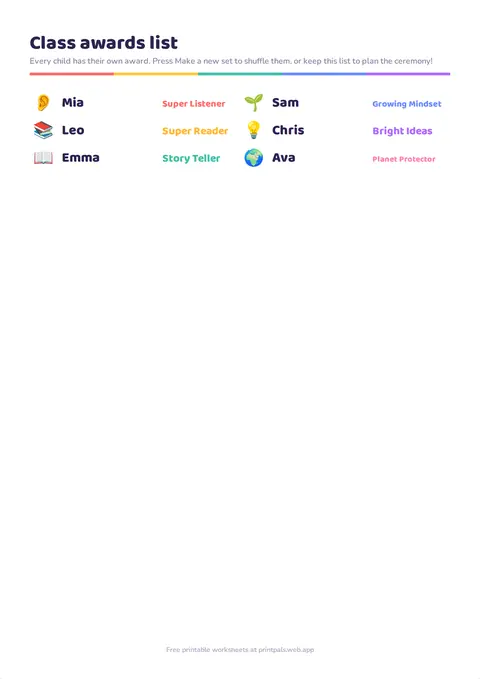
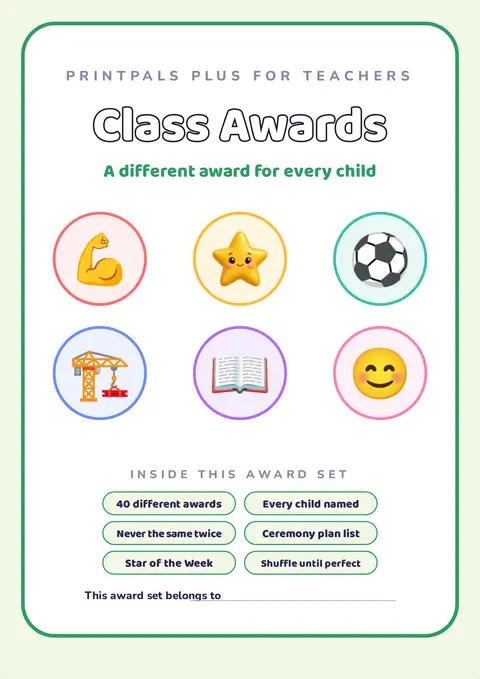
PrintPals: premium Plus showcase on the home page, covers for teacher card sets
Claude-Session: https://claude.ai/code/session_01MKMoh7LoaWyM3eLH65dhSV

diff --git a/printpals/public/index.html b/printpals/public/index.html
@@ -33,9 +33,17 @@
 <section class="hero"><div class="shapes" aria-hidden="true"><span style="width:90px;height:90px;left:6%;top:18%;background:#ffe08a;animation-delay:0s"></span><span style="width:60px;height:60px;left:88%;top:12%;background:#bfe8ff;animation-delay:1.5s"></span><span style="width:46px;height:46px;left:80%;top:70%;background:#ffc6d9;animation-delay:3s"></span><span style="width:70px;height:70px;left:12%;top:72%;background:#c9f2e6;animation-delay:4.5s"></span></div><div class="wrap" style="position:relative">
 <h1>Stop searching.<br><span class="hl">Start learning.</span></h1>
 <p class="lead">A whole week of learning planned for your child in one click, with their name on every page. Plus 120 free worksheet makers for ages 2 to 10. No sign up, ever.</p>
-<div class="cta"><a class="btn big" href="/weekly-learning-pack">🎒 Plan my child's week, free</a><a class="btn alt big" href="#packs">Browse everything</a></div>
+<div class="cta"><a class="btn big" href="/weekly-learning-pack">🎒 Plan my child's week, free</a><a class="btn plusbtn big" href="#plus-show">✨ Explore PrintPals Plus</a></div>
 <div class="chips"><span class="chip">✓ 100% free</span><span class="chip">✓ No sign up</span><span class="chip">✓ Private on your device</span><span class="chip">✓ A4 and US Letter</span><span class="chip">✓ Ink saver</span></div>
 </div></section>
+<section class="plus-show" id="plus-show"><div class="wrap">
+<div class="ps-head"><span class="ps-badge">✨ PrintPals Plus</span><h2>Premium learning, planned for you</h2><p>Whole months of learning, series to collect and class packs with every child's name. 55 family packs and 20 teacher packs, with new ones every month.</p></div>
+<div class="ps-tabs" role="tablist"><button type="button" class="on" data-ps="fam">👨👩👧 For families <b>$4.99/month</b></button><button type="button" data-ps="tea">🍎 For teachers <b>$59/year</b></button></div>
+<div class="ps-row" data-ps-row="fam"><a class="show-card" href="/handwriting-month-workbook" style="--tint:#f1f8e6"><div class="show-thumb"><img src="/img/thumb-handmonth.webp" alt="Handwriting Month example" loading="lazy" width="400" height="566"></div><div class="show-body"><h3>✏ Handwriting Month</h3><p>A 4 week handwriting workbook: 20 daily pages with their name.</p><span class="go">Try 7 days free →</span></div></a><a class="show-card" href="/maths-a-day-workbook" style="--tint:#eef6ff"><div class="show-thumb"><img src="/img/thumb-mathsday.webp" alt="Maths a Day example" loading="lazy" width="400" height="566"></div><div class="show-body"><h3>🔢 Maths a Day</h3><p>4 weeks of 10 minute daily maths, Friday checks and answers.</p><span class="go">Try 7 days free →</span></div></a><a class="show-card" href="/reading-month-sight-words" style="--tint:#fff0f5"><div class="show-thumb"><img src="/img/thumb-readmonth.webp" alt="Reading Month example" loading="lazy" width="400" height="566"></div><div class="show-body"><h3>📚 Reading Month</h3><p>16 sight words in 4 weeks with a story every Friday.</p><span class="go">Try 7 days free →</span></div></a><a class="show-card" href="/colouring-month-book" style="--tint:#fff0f5"><div class="show-thumb"><img src="/img/thumb-colourmonth.webp" alt="Colouring Month example" loading="lazy" width="400" height="566"></div><div class="show-body"><h3>🎨 Colouring Month</h3><p>40 busy scene colouring pages, each with a fun challenge.</p><span class="go">Try 7 days free →</span></div></a><a class="show-card" href="/times-tables-club" style="--tint:#f5edff"><div class="show-thumb"><img src="/img/thumb-timesclub.webp" alt="Times Tables Club example" loading="lazy" width="400" height="566"></div><div class="show-body"><h3>✖ Times Tables Club</h3><p>A times tables club: a table a week, speed tests and badges.</p><span class="go">Try 7 days free →</span></div></a><a class="show-card" href="/science-experiments-month" style="--tint:#e8f8f4"><div class="show-thumb"><img src="/img/thumb-sciencemonth.webp" alt="Science Month example" loading="lazy" width="400" height="566"></div><div class="show-body"><h3>🧪 Science Month</h3><p>16 easy kitchen experiments with predict, observe and report pages.</p><span class="go">Try 7 days free →</span></div></a><a class="show-card" href="/phonics-month-workbook" style="--tint:#fff0f0"><div class="show-thumb"><img src="/img/thumb-phonicsmonth.webp" alt="Phonics Month example" loading="lazy" width="400" height="566"></div><div class="show-body"><h3>🔤 Phonics Month</h3><p>16 letter sounds in 4 weeks, with blending every Friday.</p><span class="go">Try 7 days free →</span></div></a><a class="show-card" href="/dinosaur-activity-pack-for-kids" style="--tint:#f1f8e6"><div class="show-thumb"><img src="/img/thumb-dinokit.webp" alt="Dinosaur Explorer kit example" loading="lazy" width="400" height="566"></div><div class="show-body"><h3>🦖 Dinosaur Explorer kit</h3><p>Dino fact cards, a size chart, counting and a palaeontologist award.</p><span class="go">Try 7 days free →</span></div></a></div>
+<div class="ps-row" data-ps-row="tea" hidden><a class="show-card" href="/class-welcome-kit-for-teachers" style="--tint:#fff6e0"><div class="show-thumb"><img src="/img/thumb-classwelcome.webp" alt="Class Welcome Kit example" loading="lazy" width="400" height="566"></div><div class="show-body"><h3>🏷 Class Welcome Kit</h3><p>Name tags, peg labels, class jobs and All about me pages for every child.</p><span class="go">Try 7 days free →</span></div></a><a class="show-card" href="/class-christmas-cards" style="--tint:#fff0f0"><div class="show-thumb"><img src="/img/thumb-xmascards.webp" alt="Class Christmas Cards example" loading="lazy" width="400" height="566"></div><div class="show-body"><h3>💌 Class Christmas Cards</h3><p>A named Christmas card for every child, plus cards they make.</p><span class="go">Try 7 days free →</span></div></a><a class="show-card" href="/christmas-show-kit" style="--tint:#fff6e0"><div class="show-thumb"><img src="/img/thumb-xmasshow.webp" alt="Christmas Show Kit example" loading="lazy" width="400" height="566"></div><div class="show-body"><h3>🎭 Christmas Show Kit</h3><p>Cast list, role cards, tickets, programme and certificates.</p><span class="go">Try 7 days free →</span></div></a><a class="show-card" href="/class-awards-for-every-child" style="--tint:#f5edff"><div class="show-thumb"><img src="/img/thumb-classawards.webp" alt="Class Awards Pack example" loading="lazy" width="400" height="566"></div><div class="show-body"><h3>🏆 Class Awards Pack</h3><p>A different named award for every child in the class.</p><span class="go">Try 7 days free →</span></div></a><a class="show-card" href="/class-reading-records" style="--tint:#eef6ff"><div class="show-thumb"><img src="/img/thumb-readingrecords.webp" alt="Class Reading Records example" loading="lazy" width="400" height="566"></div><div class="show-body"><h3>📖 Class Reading Records</h3><p>A named reading record book for every child, plus a class tracker.</p><span class="go">Try 7 days free →</span></div></a><a class="show-card" href="/class-reward-system" style="--tint:#fff6e0"><div class="show-thumb"><img src="/img/thumb-classrewards.webp" alt="Class Reward System example" loading="lazy" width="400" height="566"></div><div class="show-body"><h3>⭐ Class Reward System</h3><p>Named sticker charts, team points, coupons and Star of the Week.</p><span class="go">Try 7 days free →</span></div></a><a class="show-card" href="/parents-evening-kit" style="--tint:#fff6e0"><div class="show-thumb"><img src="/img/thumb-parentsevening.webp" alt="Parents&#x27; Evening Kit example" loading="lazy" width="400" height="566"></div><div class="show-body"><h3>🗓 Parents&#x27; Evening Kit</h3><p>Invitations, booking slots and a meeting sheet for every child.</p><span class="go">Try 7 days free →</span></div></a><a class="show-card" href="/report-writing-helper" style="--tint:#f5edff"><div class="show-thumb"><img src="/img/thumb-reporthelper.webp" alt="Report Writing Helper example" loading="lazy" width="400" height="566"></div><div class="show-body"><h3>📋 Report Writing Helper</h3><p>A comment bank and a report page for every child.</p><span class="go">Try 7 days free →</span></div></a></div>
+<div class="ps-cta"><a class="btn big" href="/plus">Try Plus free for 7 days</a><span>No card needed. Cancel any time.</span></div>
+</div></section>
+<script>document.querySelectorAll('.ps-tabs button').forEach(function (b) { b.addEventListener('click', function () { document.querySelectorAll('.ps-tabs button').forEach(function (x) { x.classList.toggle('on', x === b); }); document.querySelectorAll('.ps-row').forEach(function (r) { r.hidden = r.dataset.psRow !== b.dataset.ps; }); }); });</script>
 <section class="only"><div class="wrap"><h2>What only PrintPals does</h2><p class="cat-lead">Other sites give you ten thousand worksheets and leave you to work it out. We built PrintPals around the real problems parents tell us about.</p><div class="only-grid"><a class="only-card" href="/weekly-learning-pack"><span class="only-ico">🎒</span><b>A whole week, planned for you</b><span>Tell us your child&#x27;s name, age and favourite theme. Get a balanced week of reading, maths and fun, a star chart, a certificate and a guide for you.</span><em>Plan my child&#x27;s week →</em></a><a class="only-card" href="/weekly-learning-pack"><span class="only-ico">👧👦</span><b>Siblings, together</b><span>Two or three children of different ages? Same theme, each at their own level, so they can sit and learn side by side.</span><em>Make a sibling pack →</em></a><a class="only-card" href="/family-far-away-activities"><span class="only-ico">💌</span><b>Family far away</b><span>Postcards to send, video call bingo and a countdown to the next visit, for grandparents and loved ones in other places.</span><em>Make a family pack →</em></a><a class="only-card" href="/quick-activity-packs"><span class="only-ico">⚡</span><b>Twenty quiet minutes, now</b><span>Ready packs for restaurants, rainy days, sick days and calm before bed. Screen-free, at your child&#x27;s level.</span><em>Get a quick pack →</em></a><a class="only-card" href="/colouring-pages"><span class="only-ico">🖨</span><b>Kind to your ink</b><span>Only have a black and white printer, or printing at a shop? Tick Ink saver on any sheet for white backgrounds and grey pictures.</span><em>Try it on any sheet →</em></a><a class="only-card" href="/addition-subtraction-worksheets"><span class="only-ico">🐢</span><b>Easier or harder, in one tap</b><span>Not quite right? Sheets have Easier and Harder buttons, and remember your child&#x27;s name on your device only.</span><em>See how it works →</em></a></div></div></section>
 <div class="wrap">
 <div class="finder">

diff --git a/printpals/public/css/site.css b/printpals/public/css/site.css
@@ -316,3 +316,30 @@ footer .foot-all { color: #ffb3c7 !important; font-weight: 800; margin-top: 4px;
 .plus-edition b { color: #8a3fd1; }
 .plus-edition em { font-style: normal; font-weight: 800; color: #e0457b; white-space: nowrap; font-size: 14px; }
 @media (max-width: 700px) { .plus-edition { flex-wrap: wrap; } .plus-edition em { width: 100%; } }
+
+/* ---- Plus showcase (premium band on the home page) ---- */
+.btn.plusbtn { background: linear-gradient(135deg, #8a3fd1, #e0457b); color: #fff; box-shadow: 0 5px 0 #6a2aa8; }
+.plus-show { background: radial-gradient(1200px 400px at 10% 0%, #5b2bb5 0%, transparent 60%), linear-gradient(135deg, #2d1b69 0%, #4a1f7a 55%, #7a2462 100%); color: #fff; padding: 56px 0 60px; margin: 10px 0 30px; }
+.plus-show .ps-head { text-align: center; max-width: 760px; margin: 0 auto 22px; }
+.plus-show h2 { color: #fff; }
+.plus-show .ps-head p { color: #e7defa; font-size: 18px; }
+.ps-badge { display: inline-block; background: linear-gradient(135deg, #ffc93c, #ff8fb1); color: #2d1b69; font-weight: 900; border-radius: 99px; padding: 6px 16px; margin-bottom: 12px; font-size: 15px; }
+.ps-tabs { display: flex; justify-content: center; gap: 10px; flex-wrap: wrap; margin-bottom: 22px; }
+.ps-tabs button { font: 800 16px 'Nunito', sans-serif; color: #e7defa; background: rgba(255,255,255,.08); border: 1px solid rgba(255,255,255,.2); border-radius: 99px; padding: 10px 20px; cursor: pointer; }
+.ps-tabs button b { color: #ffc93c; margin-left: 6px; }
+.ps-tabs button.on { background: #fff; color: #2d1b69; }
+.ps-tabs button.on b { color: #e0457b; }
+.ps-row { display: grid; grid-template-columns: repeat(4, 1fr); gap: 18px; }
+.ps-row[hidden] { display: none; }
+.show-card { display: flex; flex-direction: column; background: #fff; color: var(--ink); border-radius: 20px; overflow: hidden; text-decoration: none; box-shadow: 0 10px 30px rgba(0,0,0,.25); transition: transform .2s; }
+.show-card:hover { transform: translateY(-4px) rotate(-.4deg); }
+.show-thumb { background: var(--tint); padding: 14px 18px 0; height: 190px; overflow: hidden; }
+.show-thumb img { width: 100%; height: auto; border-radius: 8px 8px 0 0; box-shadow: 0 6px 18px rgba(45,35,80,.18); }
+.show-body { padding: 14px 16px 16px; }
+.show-body h3 { font-size: 19px; margin-bottom: 4px; }
+.show-body p { font-size: 14.5px; color: var(--soft); margin-bottom: 8px; line-height: 1.4; }
+.show-body .go { font-weight: 800; color: #8a3fd1; font-size: 14.5px; }
+.ps-cta { display: flex; justify-content: center; align-items: center; gap: 16px; flex-wrap: wrap; margin-top: 26px; }
+.ps-cta span { color: #e7defa; font-weight: 700; }
+@media (max-width: 1000px) { .ps-row { grid-template-columns: repeat(2, 1fr); } }
+@media (max-width: 560px) { .ps-row { grid-template-columns: 1fr 1fr; gap: 12px; } .show-thumb { height: 130px; padding: 10px 10px 0; } .show-body p { display: none; } .show-body h3 { font-size: 16px; } .plus-show { padding: 40px 0; } }

diff --git a/printpals/public/js/pp.js b/printpals/public/js/pp.js
@@ -13640,7 +13640,7 @@ function makeClassAwards(o, paper) {
   const kids = classNames(o), lk = edLook(o.look);
   const cls = String(o.cls || '').trim().slice(0, 24), teacher = String(o.teacher || '').trim().slice(0, 30);
   const awards = shuffle(CLASS_AWARDS, rand);
-  const pages = [];
+  const pages = [seriesCover(paper, 'PRINTPALS PLUS FOR TEACHERS', cls ? `${cls} Awards` : 'Class Awards', 'A different award for every child', awards.slice(0, 6).map((a) => a[0]), lk.ring, lk.tint, 'award set', ['40 different awards', 'Every child named', 'Never the same twice', 'Ceremony plan list', 'Star of the Week', 'Shuffle until perfect'])];
   // Overview for the teacher: who gets which award.
   {
     const pg = new Page(paper, `${cls || 'Class'} awards list`, { subtitle: 'Every child has their own award. Press Make a new set to shuffle them, or keep this list to plan the ceremony!', noName: true });
@@ -13971,7 +13971,7 @@ function foldedCard(paper, front, inside, backNote, backEmoji) {
 // ================================================================ Class Christmas Cards (teachers)
 function makeXmasCards(o, paper) {
   const kids = classNames(o), lk = xLook(o.look), { cls, teacher } = teacherBits(o);
-  const pages = [];
+  const pages = [seriesCover(paper, 'PRINTPALS PLUS FOR TEACHERS', cls ? `${cls} Christmas Cards` : 'Class Christmas Cards', 'A card for every child, and one they make', ['💌', '🎄', '⭐', '🎁', '⛄', '🔔'], lk.ring, lk.tint, 'card set', ['A card from you to each child', 'Warm message inside', 'A card each child makes', 'Signed with their name', 'Named gift tags', `${kids.length} children, all named`])];
   kids.forEach((n, i) => {
     const art = XART[i % XART.length], c = i % 2 ? lk.ring : lk.accent;
     // Card from the teacher (colour-in front, message inside).
@@ -14248,7 +14248,7 @@ function makeMovingUp(o, paper) {
 function makeClassSpecial(o, paper) {
   const kids = classNames(o), lk = edLook(o.look), { cls } = teacherBits(o);
   const who = String(o.who || '').trim().replace(/[<>]/g, '').slice(0, 20) || 'Mum';
-  const pages = [];
+  const pages = [seriesCover(paper, 'PRINTPALS PLUS FOR TEACHERS', `Cards for ${who}`, cls || 'A gift from every child', ['💐', '💌', '🌷', '💛', '🎁', '⭐'], lk.ring, lk.tint, 'card set', ['A card from every child', 'Signed with their name', '4 page mini book', `All about my ${who}`, 'Class checklist', 'Kind for every family'])];
   kids.forEach((n, i) => {
     const c = PALETTE[i % PALETTE.length];
     pages.push(...foldedCard(paper, (pg, x, y, w, h) => {

diff --git a/printpals/public/js/tools33.js b/printpals/public/js/tools33.js
@@ -20,7 +20,7 @@ function foldedCard(paper, front, inside, backNote, backEmoji) {
 // ================================================================ Class Christmas Cards (teachers)
 function makeXmasCards(o, paper) {
   const kids = classNames(o), lk = xLook(o.look), { cls, teacher } = teacherBits(o);
-  const pages = [];
+  const pages = [seriesCover(paper, 'PRINTPALS PLUS FOR TEACHERS', cls ? `${cls} Christmas Cards` : 'Class Christmas Cards', 'A card for every child, and one they make', ['💌', '🎄', '⭐', '🎁', '⛄', '🔔'], lk.ring, lk.tint, 'card set', ['A card from you to each child', 'Warm message inside', 'A card each child makes', 'Signed with their name', 'Named gift tags', `${kids.length} children, all named`])];
   kids.forEach((n, i) => {
     const art = XART[i % XART.length], c = i % 2 ? lk.ring : lk.accent;
     // Card from the teacher (colour-in front, message inside).

diff --git a/printpals/public/js/tools31.js b/printpals/public/js/tools31.js
@@ -91,7 +91,7 @@ function makeClassAwards(o, paper) {
   const kids = classNames(o), lk = edLook(o.look);
   const cls = String(o.cls || '').trim().slice(0, 24), teacher = String(o.teacher || '').trim().slice(0, 30);
   const awards = shuffle(CLASS_AWARDS, rand);
-  const pages = [];
+  const pages = [seriesCover(paper, 'PRINTPALS PLUS FOR TEACHERS', cls ? `${cls} Awards` : 'Class Awards', 'A different award for every child', awards.slice(0, 6).map((a) => a[0]), lk.ring, lk.tint, 'award set', ['40 different awards', 'Every child named', 'Never the same twice', 'Ceremony plan list', 'Star of the Week', 'Shuffle until perfect'])];
   // Overview for the teacher: who gets which award.
   {
     const pg = new Page(paper, `${cls || 'Class'} awards list`, { subtitle: 'Every child has their own award. Press Make a new set to shuffle them, or keep this list to plan the ceremony!', noName: true });

diff --git a/printpals/public/js/tools34.js b/printpals/public/js/tools34.js
@@ -127,7 +127,7 @@ function makeMovingUp(o, paper) {
 function makeClassSpecial(o, paper) {
   const kids = classNames(o), lk = edLook(o.look), { cls } = teacherBits(o);
   const who = String(o.who || '').trim().replace(/[<>]/g, '').slice(0, 20) || 'Mum';
-  const pages = [];
+  const pages = [seriesCover(paper, 'PRINTPALS PLUS FOR TEACHERS', `Cards for ${who}`, cls || 'A gift from every child', ['💐', '💌', '🌷', '💛', '🎁', '⭐'], lk.ring, lk.tint, 'card set', ['A card from every child', 'Signed with their name', '4 page mini book', `All about my ${who}`, 'Class checklist', 'Kind for every family'])];
   kids.forEach((n, i) => {
     const c = PALETTE[i % PALETTE.length];
     pages.push(...foldedCard(paper, (pg, x, y, w, h) => {

diff --git a/printpals/build.py b/printpals/build.py
@@ -3435,6 +3435,10 @@ ONLY = [
 ]
 
 
+SHOW_FAMILY = ['handmonth', 'mathsday', 'readmonth', 'colourmonth', 'timesclub', 'sciencemonth', 'phonicsmonth', 'dinokit']
+SHOW_TEACHER = ['classwelcome', 'xmascards', 'xmasshow', 'classawards', 'readingrecords', 'classrewards', 'parentsevening', 'reporthelper']
+
+
 def home():
     def card(t, i=0):
         a, b = AGES[t['id']]
@@ -3454,6 +3458,21 @@ def home():
     only = ''.join(f'<a class="only-card" href="{u}"><span class="only-ico">{i}</span><b>{html.escape(h)}</b><span>{html.escape(d)}</span><em>{html.escape(c)} →</em></a>' for i, h, d, u, c in ONLY)
     pressed = ' aria-pressed="true"'
     ages = ''.join(f'<button type="button" data-age="{a}"{pressed if a == "all" else ""}>{lab}</button>' for a, lab in [('all', 'All ages'), ('3', 'Age 3'), ('4', 'Age 4'), ('5', 'Age 5'), ('6', 'Age 6'), ('7', 'Age 7'), ('8', 'Age 8+')])
+    tmap = {t['id']: t for t in TOOLS}
+    def show_card(t):
+        return f'''<a class="show-card" href="/{t['slug']}" style="--tint:{t['tint']}"><div class="show-thumb"><img src="/img/thumb-{t['id']}.webp" alt="{html.escape(t['h1'])} example" loading="lazy" width="400" height="566"></div><div class="show-body"><h3>{t['icon']} {html.escape(t['h1'])}</h3><p>{html.escape(t['card'])}</p><span class="go">Try 7 days free →</span></div></a>'''
+    fam = [tmap[i] for i in SHOW_FAMILY if i in tmap]
+    tea = [tmap[i] for i in SHOW_TEACHER if i in tmap]
+    n_plus = sum(1 for t in TOOLS if t.get('plus') and not t.get('teacher'))
+    n_teach = sum(1 for t in TOOLS if t.get('teacher'))
+    showcase = f'''<section class="plus-show" id="plus-show"><div class="wrap">
+<div class="ps-head"><span class="ps-badge">✨ PrintPals Plus</span><h2>Premium learning, planned for you</h2><p>Whole months of learning, series to collect and class packs with every child's name. {n_plus} family packs and {n_teach} teacher packs, with new ones every month.</p></div>
+<div class="ps-tabs" role="tablist"><button type="button" class="on" data-ps="fam">👨👩👧 For families <b>$4.99/month</b></button><button type="button" data-ps="tea">🍎 For teachers <b>$59/year</b></button></div>
+<div class="ps-row" data-ps-row="fam">{''.join(show_card(t) for t in fam)}</div>
+<div class="ps-row" data-ps-row="tea" hidden>{''.join(show_card(t) for t in tea)}</div>
+<div class="ps-cta"><a class="btn big" href="/plus">Try Plus free for 7 days</a><span>No card needed. Cancel any time.</span></div>
+</div></section>
+<script>document.querySelectorAll('.ps-tabs button').forEach(function (b) {{ b.addEventListener('click', function () {{ document.querySelectorAll('.ps-tabs button').forEach(function (x) {{ x.classList.toggle('on', x === b); }}); document.querySelectorAll('.ps-row').forEach(function (r) {{ r.hidden = r.dataset.psRow !== b.dataset.ps; }}); }}); }});</script>'''
     jumps = ''.join(f'<a href="#{k}">{NAV_LABEL[k]} <b>{sum(1 for t in TOOLS if t["cat"] == k)}</b></a>' for k, v in CATS)
     return head('PrintPals | Free Printable Worksheets and Ready-Made Learning Packs for Kids',
                 'Free printable worksheets for kids, and a whole personalised learning week in one click. Tracing, reading, maths, puzzles, crafts, charts, quick packs for busy moments and activities for family far away. No sign up.',
@@ -3464,9 +3483,10 @@ def home():
 <section class="hero"><div class="shapes" aria-hidden="true">{shapes}</div><div class="wrap" style="position:relative">
 <h1>Stop searching.<br><span class="hl">Start learning.</span></h1>
 <p class="lead">A whole week of learning planned for your child in one click, with their name on every page. Plus {sum(1 for t in TOOLS if t['cat'] != 'packs')} free worksheet makers for ages 2 to 10. No sign up, ever.</p>
-<div class="cta"><a class="btn big" href="/weekly-learning-pack">🎒 Plan my child's week, free</a><a class="btn alt big" href="#packs">Browse everything</a></div>
+<div class="cta"><a class="btn big" href="/weekly-learning-pack">🎒 Plan my child's week, free</a><a class="btn plusbtn big" href="#plus-show">✨ Explore PrintPals Plus</a></div>
 <div class="chips"><span class="chip">✓ 100% free</span><span class="chip">✓ No sign up</span><span class="chip">✓ Private on your device</span><span class="chip">✓ A4 and US Letter</span><span class="chip">✓ Ink saver</span></div>
 </div></section>
+{showcase}
 <section class="only"><div class="wrap"><h2>What only PrintPals does</h2><p class="cat-lead">Other sites give you ten thousand worksheets and leave you to work it out. We built PrintPals around the real problems parents tell us about.</p><div class="only-grid">{only}</div></div></section>
 <div class="wrap">
 <div class="finder">

diff --git a/CLAUDE.md b/CLAUDE.md
@@ -100,7 +100,11 @@ card via foldedCard with backEmoji, certificate, balloon display, badges), Class
 team, 4 teams points, 10 coupons, golden time tracker, Star of the Week poster), Moving Up Kit (All about me for new teacher,
 handover notes, class summary grid, worries and wishes, welcome letter, certificate each; 'next' class name), Class Special Person
 Cards (who: Mum/Dad/Grandma/Special Person; card + 4 page mini book per child, checklist). Moving Up and Special Person pins are
-held at the end of the queue (summer and spring). 219 pins waiting. PLUS EDITIONS 4 (VERSION 50, 184 tools, tools30.js): Science Month (16 kitchen experiments SCI_EXP:
+held at the end of the queue (summer and spring). 219 pins waiting. AUTO CYCLE (owner 2026-09-28): owner wants continuous work without saying "next batch". Routine
+trig_011KFPDntG6PjvXMkuVPvTAY fires into this session every 2 hours: build 4 paid products, bug check, polish the site, publish,
+short summary. HOME PAGE: new premium purple 'plus-show' section after the hero with tabs For families / For teachers
+(SHOW_FAMILY, SHOW_TEACHER lists in build.py; keep them updated with the best products) and a hero button to it. Card sets
+(xmascards, classawards, classspecial) now start with a seriesCover so thumbnails look good. PLUS EDITIONS 4 (VERSION 50, 184 tools, tools30.js): Science Month (16 kitchen experiments SCI_EXP:
 you need, what to do, I think, I saw, draw, why; Friday reports), Spelling Month (3 levels of 4 weekly lists or the child's own
 school words; Mon look say cover write check, Tue word hunt via packRun wordsearch, Wed missing letters, Thu sentences, Fri test),
 Calm and Happy Month (feelings check-in, breathing game, calm activity, thank you; Friday my week), Reading Adventure Month (map
